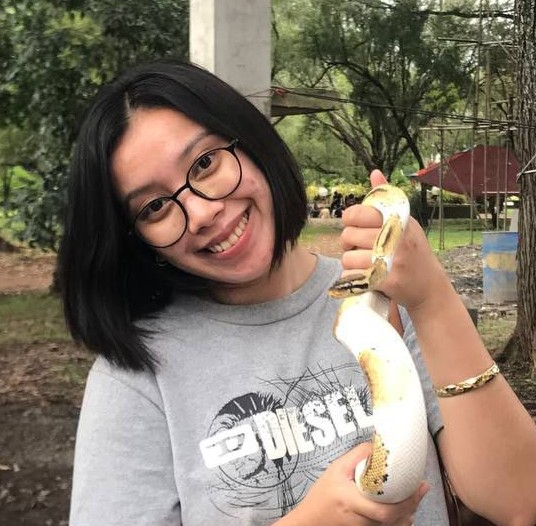
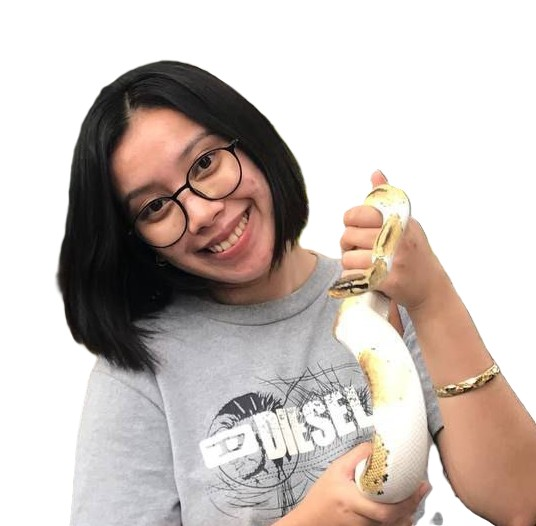
feat: added pictures for committee heads

diff --git a/src/components/Teams.vue b/src/components/Teams.vue
@@ -155,7 +155,7 @@ const committees = [
     name: 'CREATIVES COMMITTEE',
     description: 'Develops visual design, graphics, photography, and creative assets for all platforms.',
     heads: [
-      { name: 'Althea Chiong', role: 'Committee Head', image: 'https://via.placeholder.com/80?text=Head' }
+      { name: 'Althea May Chiong', role: 'Committee Head', image: new URL('../assets/Chiong, Althea May-Head.png', import.meta.url).href }
     ],
     members: [
       { name: 'Eric Galo' },
@@ -187,12 +187,28 @@ const committees = [
     name: 'PUBLICATIONS & PROMOTIONS COMMITTEE',
     description: 'Handles marketing, social media campaigns, and strategic promotion of our initiatives.',
     heads: [
-      { name: 'Pearl Odette M. Abcede', role: 'Committee Head', image: new URL('../assets/Abcede, Pearl Odette M. - Head.jpg', import.meta.url).href }
+      { name: 'Pearl Odette M. Abcede', role: 'Committee Head', image: new URL('../assets/ABCEDE, PEARL ODETTE M. - HEAD.jpg', import.meta.url).href }
     ],
-    members: Array.from({ length: 22 }, (_, i) => ({ 
-      name: `Member ${i + 1}`, 
-      image: `https://via.placeholder.com/60?text=M${i + 1}` 
-    }))
+    members: [
+      { name: 'Dei Salundaguit' },
+      { name: 'Marianne Angela Langoyan' },
+      { name: 'Felicity Franco' },
+      { name: 'Shin Alexander D. Nercua' },
+      { name: 'Alliah T. Fuerte' },
+      { name: 'Aljo Luab Enriquez' },
+      { name: 'Pauline Dominique V. Tamala' },
+      { name: 'Janna Marie T. Paredes' },
+      { name: 'Hannah Junel Matea V. Nini' },
+      { name: 'Xyvyl Dhyn L. Jimenez' },
+      { name: 'Gwyn Marie Gonzales' },
+      { name: 'Irene Grace B. Reyes' },
+      { name: 'Elyn-Je Pabualan' },
+      { name: 'Gian Joshua D. Padullon' },
+      { name: 'Carl Avila' },
+      { name: 'Manuel Dela Merced' },
+      { name: 'Kryssha Dane Auguis' },
+      { name: 'Aya Shikinah F. Hibaler' }
+    ]
   },
   {
     name: 'PARTNERSHIPS & OUTREACH COMMITTEE',
@@ -267,7 +283,7 @@ const committees = [
     name: 'QUALITY ASSURANCE & FEEDBACK COMMITTEE',
     description: 'Reviews quality standards, gathers feedback, and implements continuous improvements.',
     heads: [
-      { name: 'Danielle Louiesse Dazo', role: 'Committee Head', image: 'https://via.placeholder.com/80?text=Head' }
+      { name: 'Danielle Louiesse Dazo', role: 'Committee Head', image: new URL('../assets/Dazo, Danielle Louiesse-Head.jpeg', import.meta.url).href }
     ],
     members: [
       { name: 'Emmanuel Baclig' },
